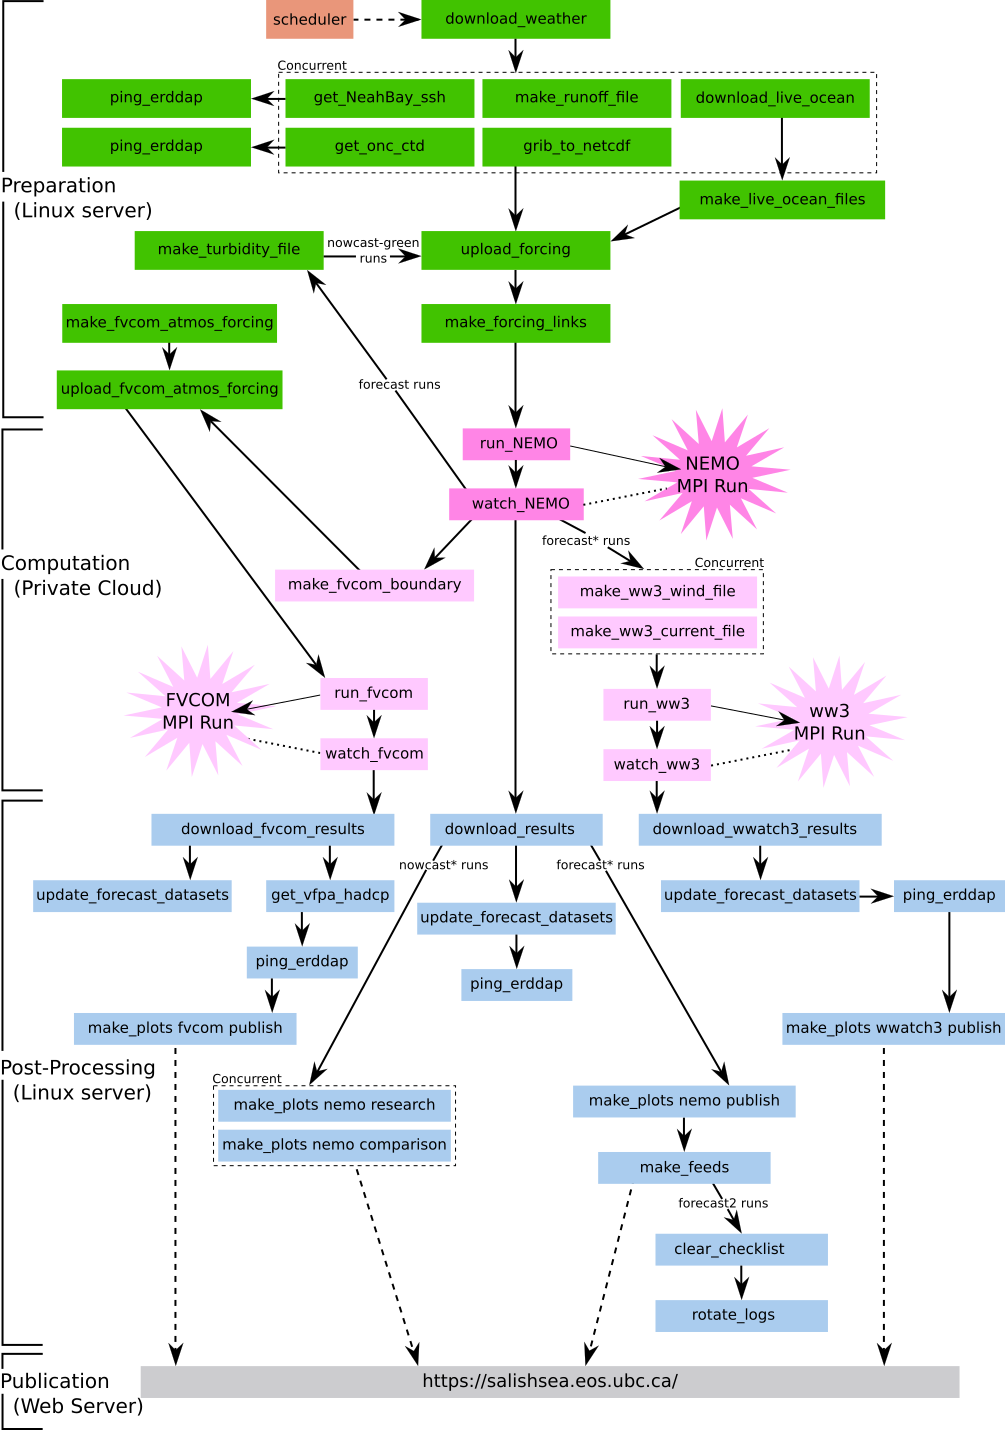
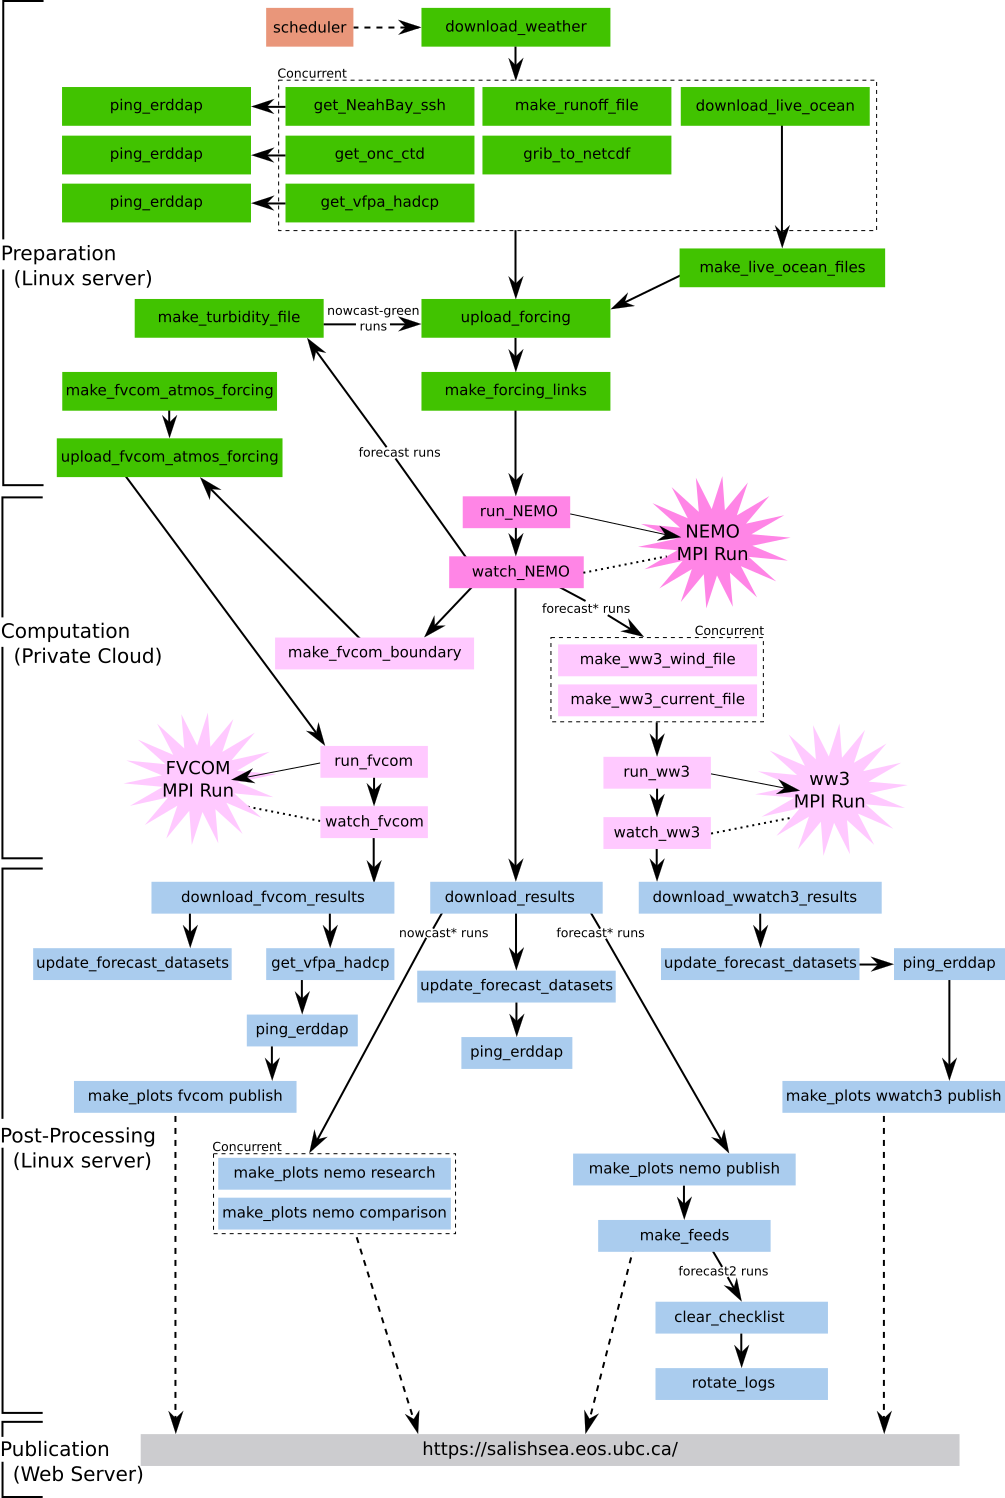
Launch get_vfpa_hadcp for previous day after download_weather 06.
This fills in any observations that arrived between the end of the
previous day's VHFR forecast run and the end of yesterday's UTC day
so that when yesterday's VHFR figures are re-generated the include
the full day's observations.

diff --git a/tests/test_next_workers.py b/tests/test_next_workers.py
@@ -16,6 +16,7 @@
 """
 from unittest.mock import patch
 
+import arrow
 import pytest
 from nemo_nowcast import Message, NextWorker
 
@@ -32,6 +33,7 @@ def config():
         "observations": {
             "ctd data": {"stations": ["SCVIP", "SEVIP", "USDDL"]},
             "ferry data": {"ferries": {"TWDP": {}}},
+            "hadcp data": {},
         },
         "run types": {
             "nowcast": {},
@@ -140,6 +142,20 @@ class TestAfterDownloadWeather:
         )
         expected = NextWorker(
             "nowcast.workers.get_onc_ferry", args=[ferry_platform], host="localhost"
+        )
+        assert expected in workers
+
+    def test_success_06_launch_get_vfpa_hadcp_for_prev_day(self, config, checklist):
+        with patch(
+            "nowcast.next_workers.arrow.utcnow", return_value=arrow.get("2018-11-08")
+        ):
+            workers = next_workers.after_download_weather(
+                Message("download_weather", "success 06"), config, checklist
+            )
+        expected = NextWorker(
+            "nowcast.workers.get_vfpa_hadcp",
+            args=["--data-date", "2018-11-07"],
+            host="localhost",
         )
         assert expected in workers
 

diff --git a/nowcast/next_workers.py b/nowcast/next_workers.py
@@ -62,6 +62,13 @@ def after_download_weather(msg, config, checklist):
             next_workers["success 06"].append(
                 NextWorker("nowcast.workers.get_onc_ferry", args=[ferry])
             )
+        if "hadcp data" in config["observations"]:
+            data_date = arrow.utcnow().shift(days=-1).format("YYYY-MM-DD")
+            next_workers["success 06"].append(
+                NextWorker(
+                    "nowcast.workers.get_vfpa_hadcp", args=["--data-date", data_date]
+                )
+            )
         if "forecast2" in config["run types"]:
             next_workers["success 06"].extend(
                 [
